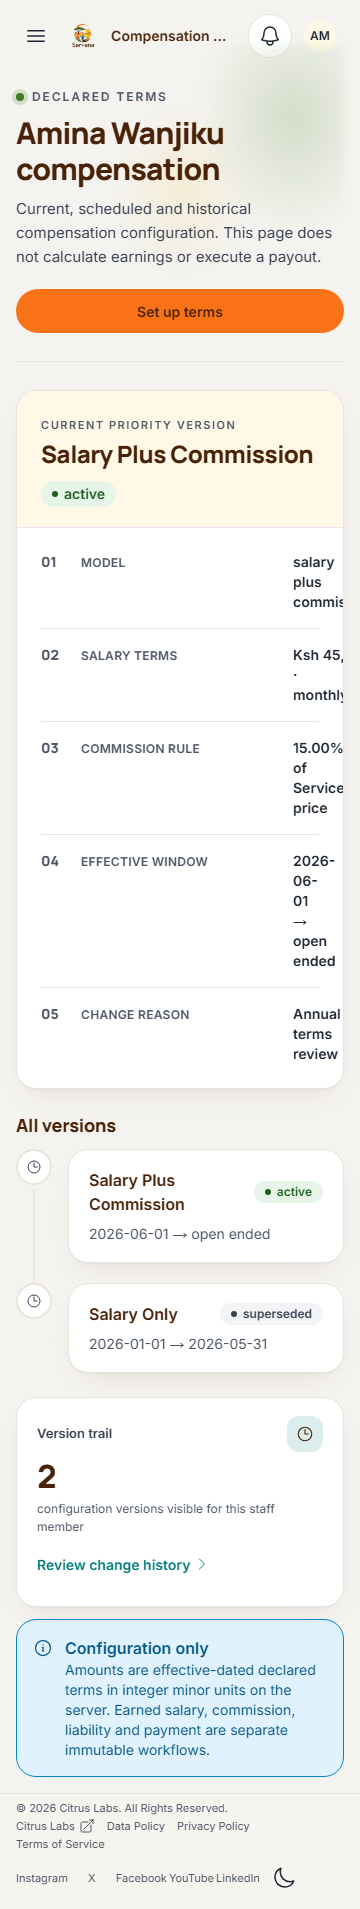
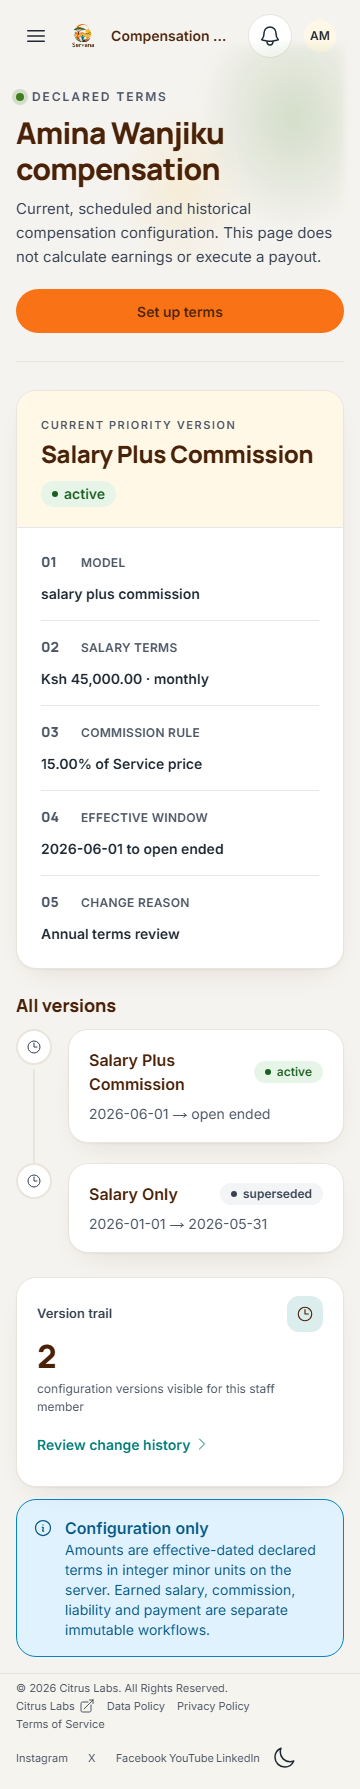
ui-design: correct date separators and mobile compensation terms

diff --git a/tests/e2e/cor-ui08-ui12-visual-regression.spec.ts b/tests/e2e/cor-ui08-ui12-visual-regression.spec.ts
@@ -1,7 +1,7 @@
 import { existsSync } from 'node:fs';
 import { expect, test, type Page, type TestInfo } from '@playwright/test';
 import { choosePopulatedSubject, stubPopulated } from './support/corPopulated';
-import { assertAxeClean, readyLocator } from './support/releaseAudit';
+import { assertAxeClean, assertNoHorizontalOverflow, readyLocator } from './support/releaseAudit';
 import { liveContractPages, prepareVisual, type ContractPage } from './support/ui16Visual';
 
 /**
@@ -160,3 +160,28 @@ test.describe('COR-UI08-UI12-VIS-001 visual regression negative control', () => 
     await expect(expect(page).toHaveScreenshot(`${key}--desktop-light.png`, { ...SCREENSHOT, timeout: 3_000 })).rejects.toThrow();
   });
 });
+
+
+for (const theme of ['light', 'dark'] as const) {
+  test('populated compensation terms remain readable at every required width and 200% equivalent: ' + theme, async ({ page }) => {
+    await open(page, byKey('merchant_human_resource.compensation-detail'), theme, 1440, 900);
+    const values = page.getByTestId('hr-compensation-detail').locator('dl').first().locator('dd');
+    await expect(values).toHaveCount(5);
+    for (const width of [360, 767, 768, 1024, 1025, 1280, 1440, 640]) {
+      await page.setViewportSize({ width, height: width === 640 ? 400 : 900 });
+      await assertNoHorizontalOverflow(page, 'populated compensation terms ' + theme + ' ' + width);
+      for (const value of await values.all()) {
+        const bounds = await value.evaluate((element) => {
+          const box = element.getBoundingClientRect();
+          const panel = element.closest('article')!.getBoundingClientRect();
+          return { client: element.clientWidth, scroll: element.scrollWidth, left: box.left, right: box.right, panelLeft: panel.left, panelRight: panel.right };
+        });
+        expect(bounds.client, 'term has a readable content width').toBeGreaterThan(0);
+        expect(bounds.scroll, 'term text is not clipped horizontally at ' + width).toBeLessThanOrEqual(bounds.client + 1);
+        expect(bounds.left).toBeGreaterThanOrEqual(bounds.panelLeft);
+        expect(bounds.right).toBeLessThanOrEqual(bounds.panelRight + 1);
+        expect(bounds.right).toBeLessThanOrEqual(width + 1);
+      }
+    }
+  });
+}

diff --git a/resources/spa/src/pages/hr/CompensationDetail.vue b/resources/spa/src/pages/hr/CompensationDetail.vue
@@ -61,7 +61,7 @@ const clauses = computed(() => current.value ? [
         minor === null || currency === null ? '—' : formatMoney(minor, currency))
       : 'No commission rule',
   },
-  { label: 'Effective window', value: `${current.value.effective_from} → ${current.value.effective_to ?? 'open ended'}` },
+  { label: 'Effective window', value: `${current.value.effective_from} to ${current.value.effective_to ?? 'open ended'}` },
   { label: 'Change reason', value: current.value.change_reason ?? 'Not recorded' },
 ] : []);
 </script>
@@ -129,7 +129,7 @@ const clauses = computed(() => current.value ? [
               <div
                 v-for="(clause, index) in clauses"
                 :key="clause.label"
-                class="grid grid-cols-[minmax(0,15rem)_minmax(0,1fr)] items-baseline gap-3 border-b border-sv-border py-4 last:border-b-0"
+                class="grid grid-cols-1 items-baseline gap-3 border-b border-sv-border py-4 last:border-b-0 md:grid-cols-[minmax(0,15rem)_minmax(0,1fr)]"
               >
                 <!-- The clause number lives inside the dt so the group holds only dt/dd (axe definition-list). -->
                 <dt class="text-xs font-semibold uppercase tracking-wide text-text-muted">
@@ -137,7 +137,7 @@ const clauses = computed(() => current.value ? [
                     aria-hidden="true"
                     class="inline-block w-10 font-display text-sm font-extrabold normal-case tracking-normal text-sv-text-muted"
                   >{{ String(index + 1).padStart(2, '0') }}</span>{{ clause.label }}
-                </dt><dd class="text-sm font-semibold text-text">
+                </dt><dd class="min-w-0 break-words text-sm font-semibold text-text">
                   {{ clause.value }}
                 </dd>
               </div>

diff --git a/resources/spa/src/pages/merchant/SubscriptionDashboard.vue b/resources/spa/src/pages/merchant/SubscriptionDashboard.vue
@@ -206,7 +206,7 @@ onMounted(async () => {
                   ><span class="absolute -left-1.5 -top-1 h-2.5 w-2.5 rounded-full bg-sv-accent" /><span class="absolute -right-1.5 -top-1 h-2.5 w-2.5 rounded-full bg-sv-accent" /></span>
                   <span class="mt-2 flex justify-between text-sm font-medium text-text">
                     <span>{{ dateOnly(sub.trial_started_at) }}</span>
-                    <span class="sr-only"> → </span>
+                    <span class="sr-only"> to </span>
                     <span>{{ dateOnly(sub.trial_ends_at) }}</span>
                   </span>
                 </dd>
@@ -222,7 +222,7 @@ onMounted(async () => {
                   ><span class="absolute -left-1.5 -top-1 h-2.5 w-2.5 rounded-full bg-sv-brand-secondary" /><span class="absolute -right-1.5 -top-1 h-2.5 w-2.5 rounded-full bg-sv-brand-secondary" /></span>
                   <span class="mt-2 flex justify-between text-sm font-medium text-text">
                     <span>{{ sub.current_period_start }}</span>
-                    <span class="sr-only"> → </span>
+                    <span class="sr-only"> to </span>
                     <span>{{ sub.current_period_end }}</span>
                   </span>
                 </dd>

diff --git a/docs/proof/cor-ui08-ui12-vis-001.md b/docs/proof/cor-ui08-ui12-vis-001.md
@@ -109,3 +109,45 @@ by exact path from HEAD; no predecessor file is part of the handoff.
 
 `claude-to-codex-handoff.json` / `.md` — NUL-safe path/status/size/SHA-256 inventory; manifest
 digest in the `.md`.
+
+## Codex release verification and COR-REL-002
+
+PR #69 publishes one corrective code phase. Codex authenticated the frozen 651-path handoff,
+reviewed six references and 36 before/after comparisons, and verified 510 frame hashes.
+The original manifest remains unchanged; current Codex deltas are recorded independently in
+`docs/frontend/audits/cor-ui08-ui12-vis-001/codex-release-addendum.json`.
+
+First hosted run `38505857221`, head `6f25b07`, retained its real failure: Backend reported
+1 failed / 5 skipped / 3,639 passed (53,025 assertions), with `UiIconSourceGuardTest` identifying
+three date-separator glyphs. The local guard reproduced exactly 1 failed / 16 passed.
+Root cause: a template-string range and two isolated screen-reader spans presented an arrow
+as a standalone glyph to the line-based icon guard. Precise correction: use the explicit word
+"to" for these date ranges; no icon-policy/test weakening, date/business-rule change or new library.
+The unchanged icon guard then passed 17/17 (23 assertions). Only the populated Compensation
+Detail evidence is visually invalidated; the two Subscription Dashboard separators are hidden.
+Focused browser/unit/type checks and fresh five-job final-head CI are required before merge.
+
+The five inherited Backend skips are one opt-in Phase 24 wall-clock benchmark
+(`SERVANA_RUN_BENCHMARK=1`; performance owner) and four old `FutureResourceIsolationTest`
+placeholders owned by Invoicing Phase 17, Payments Phase 18, Exports Phase 18/19 and Personnel
+Phase 16. Their historical skip markers remain unchanged; this corrective visual phase introduces
+no skipped security test and does not claim those placeholders ran. Current functional/isolation
+coverage and the existing UI-15 export-security step remain part of hosted Backend validation.
+
+Code release is pending. Product-owner aesthetic acceptance, manual screen-reader assessment,
+UI-17 production prerequisites and Gate-W work remain separately owned and pending.
+
+### COR-REL-003 — populated mobile term readability
+
+Independent review of the fresh 360px Compensation Detail frame found values clipped by an
+unconditional 15rem label column. The new negative text-fit test failed at 360px: 82px scroll
+width against a 26px value column. The page now stacks labels and values below 768px, retains
+the existing wider grid, and lets values wrap. Two light/dark tests assert all five values fit
+at seven required widths plus 640×400 (200% equivalent), without raising any timeout.
+The focused corrected-source run passed 5/5: one three-variant capture, both affected populated
+axe cases and both readability matrices. Targeted lint, typecheck/build and four Subscription
+Dashboard unit cases passed. The first local fork-worker startup timeout (zero tests/imports)
+and initial concurrent-run axe timeout remain recorded in the release addendum; no test was
+weakened or silently waived. The actual clipped frame is retained in `codex-defects/`; only
+three populated after frames, their current index and the populated review-sheet column changed.
+Historical UI-16 records and all regression goldens remain untouched by this correction.

diff --git a/docs/PROGRESS.md b/docs/PROGRESS.md
@@ -156,7 +156,7 @@ while the repository records said the work was complete.
 | UI-17 | Performance, security, production deployment, closeout | 🟡 code `merged` (PR [#68](https://github.com/ikrome002-design/servana/pull/68), merge `562ffbbb…`; verified live 2026-10-13 on the COR-UI08-UI12-VIS-001 branch) — **not** `verified_complete`: live production acceptance `blocked_external` (DNS lame delegation, no deployment platform); owner decisions D1–D8 open | `phase-ui-17-performance-security-production-closeout` (deleted) | [ui-17.md](proof/ui-17.md) | See the UI-17 section and its 2026-10-13 merge reconciliation |
 | COR-UI08-UI12-VIS-001 | Corrective reference-grade visual redesign of UI-08 … UI-12 (82 live pages) | 🟡 `local_complete` — uncommitted handoff to Codex (base `562ffbbb…`); **product-owner visual acceptance pending** | `design/ui08-ui12-reference-grade-redesign` | [cor-ui08-ui12-vis-001.md](proof/cor-ui08-ui12-vis-001.md) | Section below |
 
-### COR-UI08-UI12-VIS-001 — corrective reference-grade visual redesign (UI-08 … UI-12) — local_complete (uncommitted handoff)
+### COR-UI08-UI12-VIS-001 — corrective reference-grade visual redesign (UI-08 … UI-12) — local_complete; PR #69 release verification
 
 ```text
 phase_id: COR-UI08-UI12-VIS-001 (corrective; not UI-18; does not reopen UI-08…UI-12 functionally)
@@ -195,7 +195,7 @@ rewritten by the full runs was restored by exact path. Details: the proof and `t
 | REM-EXP-001 · REM-PERM-002 · UI07-ENV-001 · REM-SMS-002 · REM-RE-002 | existing owners | unchanged |
 | 20D-W · 21R-B · 21N · the 28 gated pages | after External Gate W | Gate W **closed**; not started |
 
-**Next exact action:** Codex — `docs/frontend/audits/cor-ui08-ui12-vis-001/claude-to-codex-handoff.md`.
+**Codex release checkpoint (2026-10-14):** PR [#69](https://github.com/ikrome002-design/servana/pull/69), implementation `135b05d`, precise public-digest fingerprint `6f25b07`. Independent six-reference/36-comparison review and 510 hashes passed. First hosted Backend failed the three date-glyph source-contract cases (COR-REL-002); date-glyph correction passes the unchanged 17-case guard; COR-REL-003 also fixes populated mobile Compensation Detail clipping, with two new width/theme tests and a 5/5 focused browser run. Fresh exact-head five-job CI remains pending. Code is not merged; owner visual approval remains pending. The handoff lifecycle above records the original entry, not the current Git state. See the [release addendum](frontend/audits/cor-ui08-ui12-vis-001/codex-release-addendum.json).
 
 ### Phase UI-17 — Performance, security, production deployment and closeout — local_complete (uncommitted handoff)
 

diff --git a/docs/CHANGELOG.md b/docs/CHANGELOG.md
@@ -6,7 +6,9 @@ roadmap (Plan §§79–80), which supersedes the old §27 roadmap.
 
 ## [Unreleased]
 
-### COR-UI08-UI12-VIS-001 — corrective reference-grade visual redesign of UI-08 … UI-12 (`design/ui08-ui12-reference-grade-redesign`) — local_complete; uncommitted handoff; product-owner visual acceptance pending
+### COR-UI08-UI12-VIS-001 — corrective reference-grade visual redesign of UI-08 … UI-12 (`design/ui08-ui12-reference-grade-redesign`) — local_complete; PR #69 release verification; product-owner visual acceptance pending
+
+- Codex release verification (2026-10-14): PR #69 pending protected merge; six references, 36 comparisons and 510 frame hashes verified. COR-REL-002 corrects three date separators to explicit "to" after the hosted icon-source guard failed; original failure retained, guard 17/17 after correction, no rule/test weakening. COR-REL-003 fixes populated mobile compensation values clipped by a 15rem label column; all widths and both themes now have a text-fit regression. Focused browser checks 5/5. Owner aesthetic approval remains pending.
 
 Base `562ffbbb…` (UI-17 PR #68 merge). The product owner rejected the look of the five oldest
 authenticated experiences; all **82 live pages** (17 / 15 / 15 / 15 / 20) are recomposed and the

diff --git a/docs/frontend/audits/cor-ui08-ui12-vis-001/product-owner-visual-review.md b/docs/frontend/audits/cor-ui08-ui12-vis-001/product-owner-visual-review.md
@@ -59,3 +59,12 @@ and does not block the code pull request (prompt §8).
 | Date | — |
 | Pages accepted | — |
 | Pages needing changes (with notes) | — |
+
+## Codex review correction (2026-10-14)
+
+Compensation Detail had clipped populated mobile terms despite the original agent score.
+Review the [actual clipped frame](codex-defects/hr-compensation-detail-mobile-clipped.png)
+and [corrected mobile terms](screenshots/populated/mobile-light/merchant_human_resource.compensation-detail.png).
+The labels now stack above complete values; the updated comparison sheet uses the actual corrected
+desktop frame. Two light/dark text-fit tests cover all required widths and 200% equivalent.
+Product-owner approval remains pending for every page.
